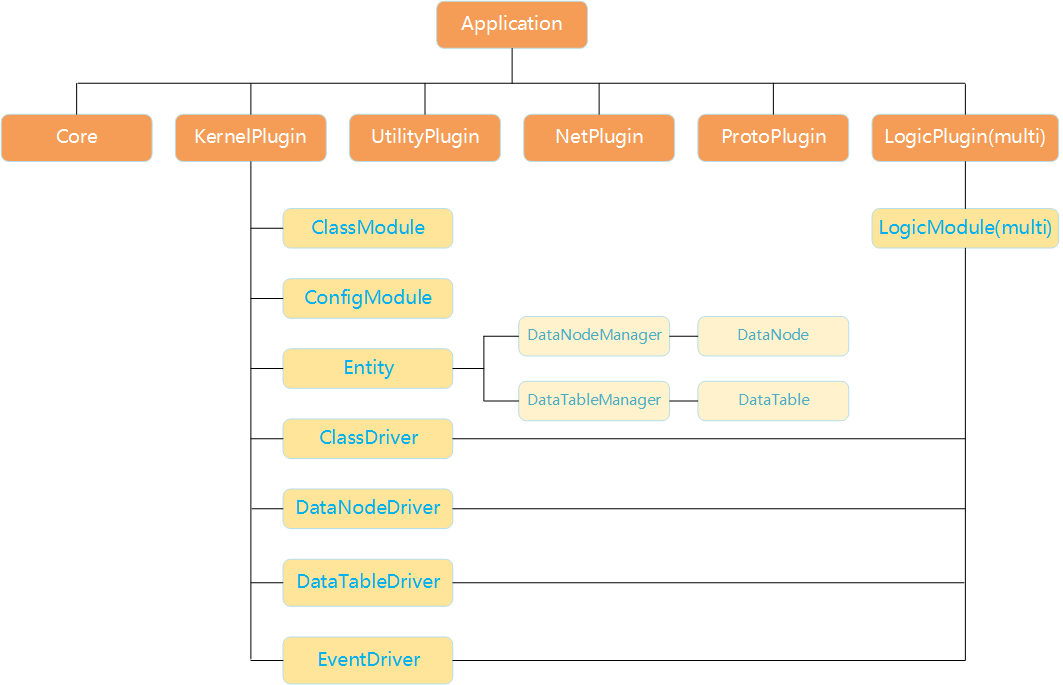
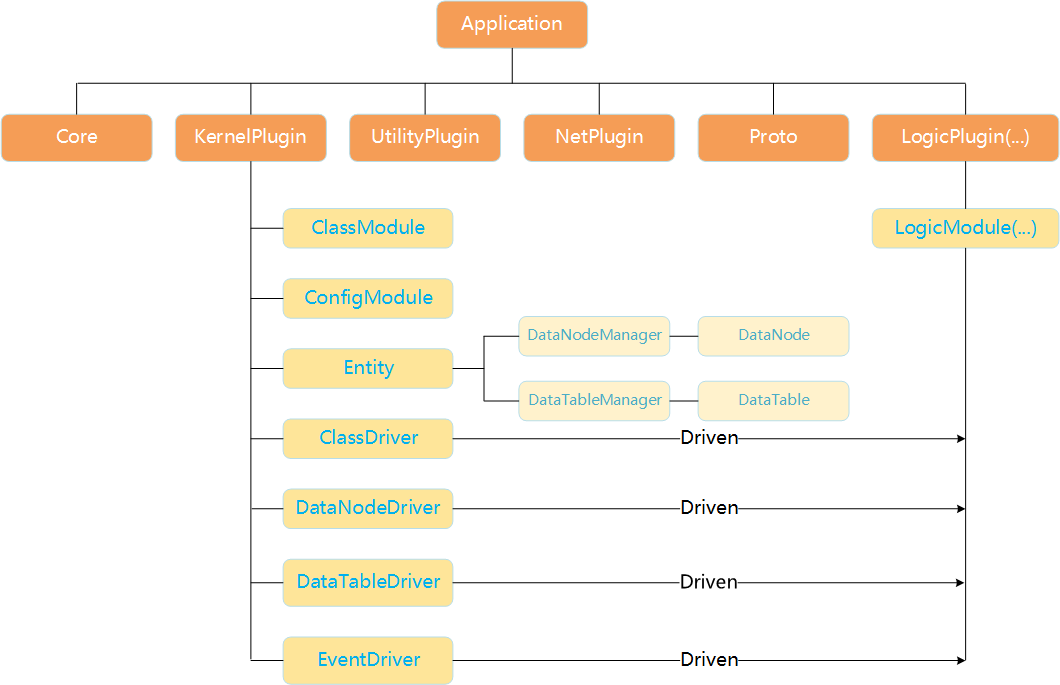
update docs

diff --git a/kernel-plugin.md b/kernel-plugin.md
@@ -1,18 +1,18 @@
-# Kernel plugin
+# KernelPlugin介绍
 
 该插件是`ARK框架`中的核心插件, 主要用来管理Entity对象和进程配置数据, 其中主要包含四个模块,
 
-- AFCClassModule 
-- AFCElementModule
-- AFCSceneModule
+- AFCMetaClassModule 
+- AFCConfigModule
+- AFCMapModule
 - AFCKernelModule
 
 该四个插件对应的功能各不相同, 却各有关联，下面详细讲解各个模块的功能.
 
-## AFCClassModule
+## AFCMetaClassModule
 
-主要负责ARK中Class的管理, 这里的Class类似Entity, 区别于Entity的是, Class是通过配置出来的, 而Entity是在运行过程中动态创建出来的, 其余功能和Entity类似.
-ClassModule通过加载`DataConfig/Struct/LogicClass.xml`来获得ClassName, InstancePath(Class的结构文件路径), ResPath(Class的配置文件路径). 有些动态创建出来的Entity需要通过Class来提供结构样式, 这种Class的Res文件是没有配置的, 因为都是动态创建过程中赋值. 同时也提供ClassEvent和ClassCallback, 当该Class对应的Entity创建时, 可以对应处理事件.
+主要负责ARK中`MetaClass`的管理, 这里的`MetaClass`类似`Entity`, 区别于`Entity`的是, `MetaClass`是通过`配置`出来的, 而`Entity`是在运行过程中`动态创建`出来的, 其余功能和`Entity`类似.
+`MetaClassModule`通过加载`DataConfig/Struct/LogicClass.xml`来获得ClassName, InstancePath(Class的结构文件路径), ResPath(Class的配置文件路径). 有些动态创建出来的`Entity`需要通过`MetaClass`来提供结构样式, 这种`Class`的Res文件是没有配置的, 因为都是动态创建过程中赋值. 同时也提供`ClassEvent`和`ClassCallback`, 当该`MetaClass`对应的`Entity`创建时, 可以对应处理事件.
 
 下面举例说明如何使用ClassCallback
 
@@ -33,32 +33,35 @@ bool AFCPropertyModule::PostInit()
 }
 ```
 
-而AFCPropertyModule::OnObjectClassEvent中可以根据ClassEvent处理不同的业务逻辑，做到解耦(*注意:AddClassCallBack要在该Class对应的Entity创建前调用*)
+而AFCPropertyModule::OnObjectClassEvent中可以根据`ClassEvent`处理不同的业务逻辑，做到解耦(*注意:AddClassCallBack要在该Class对应的Entity创建前调用*)
 
-## AFCElementModule
+## AFCConfigModule
 
-主要管理配置类数据, 通过上面的ClassModule获得Instance和ResPath后，对这两个分别加载进内存，形成配置文件，后续就可以通过下面接口获取配置内容了
+主要管理配置类数据, 通过上面的`MetaClassModule`获得Instance和ResPath后，对这两个分别加载进内存，形成配置文件，后续就可以通过下面接口获取配置内容了
 
 ```cpp
-virtual bool ExistElement(const std::string& strConfigName);
-virtual bool ExistElement(const std::string& strClassName, const std::string& strConfigName);
+bool ExistConfig(const std::string& config_id) override;
+bool ExistConfig(const std::string& class_name, const std::string& config_id) override;
 
-virtual bool GetNodeBool(const std::string& strConfigName, const std::string& strDataNodeName);
-virtual int32_t GetNodeInt(const std::string& strConfigName, const std::string& strDataNodeName);
-virtual int64_t GetNodeInt64(const std::string& strConfigName, const std::string& strDataNodeName);
-virtual float GetNodeFloat(const std::string& strConfigName, const std::string& strDataNodeName);
-virtual double GetNodeDouble(const std::string& strConfigName, const std::string& strDataNodeName);
-virtual const char* GetNodeString(const std::string& strConfigName, const std::string& strDataNodeName);
+bool GetNodeBool(const std::string& config_id, const std::string& node_name) override;
+int32_t GetNodeInt(const std::string& config_id, const std::string& node_name) override;
+int64_t GetNodeInt64(const std::string& config_id, const std::string& node_name) override;
+float GetNodeFloat(const std::string& config_id, const std::string& node_name) override;
+double GetNodeDouble(const std::string& config_id, const std::string& node_name) override;
+const char* GetNodeString(const std::string& config_id, const std::string& node_name) override;
 ```
 
-## AFCSceneModule
+## AFCMapModule
+
 用来创建场景和管理场景中的Entity列表(*为了更加灵活, 当前是按照地图全图广播的, 如有RPG项目的需求，请自行添加RPG中的九宫格/十字链表等视野管理*), 可以获取场景中的Entity数据, 从而进行数据广播等等.
 *因暂时ARK框架中并无实际逻辑，所以此模块暂时并没有特别多的用处.*
 
 ## AFCKernelModule
-主要用来作为Entity数据管理, 是本插件的核心模块，几乎所有的接口都是来自此模块, 主要用途为获取Entity对象, 获取/修改Entity的Node和Table数据, 同时可以注册公共的ClassEvent, DataNodeEvent, DataTableEvent(公共事件并不局限于某个Class/Entity)
+
+主要用来作为Entity数据管理, 是本插件的核心模块，几乎所有的接口都是来自此模块, 主要用途为获取Entity对象, 获取/修改`Entity`的`Node`和`Table`数据, 同时可以注册公共的`ClassEvent`, `DataNodeEvent`, `DataTableEvent`(公共事件并不局限于某个Class/Entity)
 
 公共注册接口如下:
+
 ```cpp
 template<typename BaseType>
 bool RegCommonClassEvent(BaseType* pBase, int (BaseType::*handler)(const AFGUID&, const std::string&, const ARK_ENTITY_EVENT, const AFIDataList&))
@@ -83,6 +86,7 @@ bool RegCommonDataTableEvent(BaseType* pBase, int (BaseType::*handler)(const AFG
 ```
 
 数据获取接口如下:
+
 ```cpp
 virtual ARK_SHARE_PTR<AFIEntity> GetEntity(const AFGUID& ident) = 0;
 virtual ARK_SHARE_PTR<AFIEntity> CreateEntity(const AFGUID& self, const int nSceneID, const int nGroupID, const std::string& strClassName, const std::string& strConfigIndex, const AFIDataList& arg) = 0;
@@ -127,6 +131,7 @@ virtual const AFGUID GetTableObject(const AFGUID& self, const std::string& name,
 ```
 
 举个数据获取的例子:
+
 ```cpp
 int AFCLevelModule::AddExp(const AFGUID& self, const int nExp)
 {

diff --git a/zh-cn/kernel-plugin.md b/zh-cn/kernel-plugin.md
@@ -2,17 +2,17 @@
 
 该插件是`ARK框架`中的核心插件, 主要用来管理Entity对象和进程配置数据, 其中主要包含四个模块,
 
-- AFCClassModule 
-- AFCElementModule
-- AFCSceneModule
+- AFCMetaClassModule 
+- AFCConfigModule
+- AFCMapModule
 - AFCKernelModule
 
 该四个插件对应的功能各不相同, 却各有关联，下面详细讲解各个模块的功能.
 
-## AFCClassModule
+## AFCMetaClassModule
 
-主要负责ARK中Class的管理, 这里的Class类似Entity, 区别于Entity的是, Class是通过配置出来的, 而Entity是在运行过程中动态创建出来的, 其余功能和Entity类似.
-ClassModule通过加载`DataConfig/Struct/LogicClass.xml`来获得ClassName, InstancePath(Class的结构文件路径), ResPath(Class的配置文件路径). 有些动态创建出来的Entity需要通过Class来提供结构样式, 这种Class的Res文件是没有配置的, 因为都是动态创建过程中赋值. 同时也提供ClassEvent和ClassCallback, 当该Class对应的Entity创建时, 可以对应处理事件.
+主要负责ARK中`MetaClass`的管理, 这里的`MetaClass`类似`Entity`, 区别于`Entity`的是, `MetaClass`是通过`配置`出来的, 而`Entity`是在运行过程中`动态创建`出来的, 其余功能和`Entity`类似.
+`MetaClassModule`通过加载`DataConfig/Struct/LogicClass.xml`来获得ClassName, InstancePath(Class的结构文件路径), ResPath(Class的配置文件路径). 有些动态创建出来的`Entity`需要通过`MetaClass`来提供结构样式, 这种`Class`的Res文件是没有配置的, 因为都是动态创建过程中赋值. 同时也提供`ClassEvent`和`ClassCallback`, 当该`MetaClass`对应的`Entity`创建时, 可以对应处理事件.
 
 下面举例说明如何使用ClassCallback
 
@@ -33,32 +33,35 @@ bool AFCPropertyModule::PostInit()
 }
 ```
 
-而AFCPropertyModule::OnObjectClassEvent中可以根据ClassEvent处理不同的业务逻辑，做到解耦(*注意:AddClassCallBack要在该Class对应的Entity创建前调用*)
+而AFCPropertyModule::OnObjectClassEvent中可以根据`ClassEvent`处理不同的业务逻辑，做到解耦(*注意:AddClassCallBack要在该Class对应的Entity创建前调用*)
 
-## AFCElementModule
+## AFCConfigModule
 
-主要管理配置类数据, 通过上面的ClassModule获得Instance和ResPath后，对这两个分别加载进内存，形成配置文件，后续就可以通过下面接口获取配置内容了
+主要管理配置类数据, 通过上面的`MetaClassModule`获得Instance和ResPath后，对这两个分别加载进内存，形成配置文件，后续就可以通过下面接口获取配置内容了
 
 ```cpp
-virtual bool ExistElement(const std::string& strConfigName);
-virtual bool ExistElement(const std::string& strClassName, const std::string& strConfigName);
+bool ExistConfig(const std::string& config_id) override;
+bool ExistConfig(const std::string& class_name, const std::string& config_id) override;
 
-virtual bool GetNodeBool(const std::string& strConfigName, const std::string& strDataNodeName);
-virtual int32_t GetNodeInt(const std::string& strConfigName, const std::string& strDataNodeName);
-virtual int64_t GetNodeInt64(const std::string& strConfigName, const std::string& strDataNodeName);
-virtual float GetNodeFloat(const std::string& strConfigName, const std::string& strDataNodeName);
-virtual double GetNodeDouble(const std::string& strConfigName, const std::string& strDataNodeName);
-virtual const char* GetNodeString(const std::string& strConfigName, const std::string& strDataNodeName);
+bool GetNodeBool(const std::string& config_id, const std::string& node_name) override;
+int32_t GetNodeInt(const std::string& config_id, const std::string& node_name) override;
+int64_t GetNodeInt64(const std::string& config_id, const std::string& node_name) override;
+float GetNodeFloat(const std::string& config_id, const std::string& node_name) override;
+double GetNodeDouble(const std::string& config_id, const std::string& node_name) override;
+const char* GetNodeString(const std::string& config_id, const std::string& node_name) override;
 ```
 
-## AFCSceneModule
+## AFCMapModule
+
 用来创建场景和管理场景中的Entity列表(*为了更加灵活, 当前是按照地图全图广播的, 如有RPG项目的需求，请自行添加RPG中的九宫格/十字链表等视野管理*), 可以获取场景中的Entity数据, 从而进行数据广播等等.
 *因暂时ARK框架中并无实际逻辑，所以此模块暂时并没有特别多的用处.*
 
 ## AFCKernelModule
-主要用来作为Entity数据管理, 是本插件的核心模块，几乎所有的接口都是来自此模块, 主要用途为获取Entity对象, 获取/修改Entity的Node和Table数据, 同时可以注册公共的ClassEvent, DataNodeEvent, DataTableEvent(公共事件并不局限于某个Class/Entity)
+
+主要用来作为Entity数据管理, 是本插件的核心模块，几乎所有的接口都是来自此模块, 主要用途为获取Entity对象, 获取/修改`Entity`的`Node`和`Table`数据, 同时可以注册公共的`ClassEvent`, `DataNodeEvent`, `DataTableEvent`(公共事件并不局限于某个Class/Entity)
 
 公共注册接口如下:
+
 ```cpp
 template<typename BaseType>
 bool RegCommonClassEvent(BaseType* pBase, int (BaseType::*handler)(const AFGUID&, const std::string&, const ARK_ENTITY_EVENT, const AFIDataList&))
@@ -83,6 +86,7 @@ bool RegCommonDataTableEvent(BaseType* pBase, int (BaseType::*handler)(const AFG
 ```
 
 数据获取接口如下:
+
 ```cpp
 virtual ARK_SHARE_PTR<AFIEntity> GetEntity(const AFGUID& ident) = 0;
 virtual ARK_SHARE_PTR<AFIEntity> CreateEntity(const AFGUID& self, const int nSceneID, const int nGroupID, const std::string& strClassName, const std::string& strConfigIndex, const AFIDataList& arg) = 0;
@@ -127,6 +131,7 @@ virtual const AFGUID GetTableObject(const AFGUID& self, const std::string& name,
 ```
 
 举个数据获取的例子:
+
 ```cpp
 int AFCLevelModule::AddExp(const AFGUID& self, const int nExp)
 {

diff --git a/zh-cn/app-architecture.md b/zh-cn/app-architecture.md
@@ -1,6 +1,6 @@
 # 应用架构介绍
 
-ARK中一个应用(application)是有插件(plugin)组成的, 插件(plugin)由很多模块(module)组成的, module通过面向接口编程(IOP)来做到功能调用.
+ARK中一个应用(application)是由插件(plugin)组成的, 插件(plugin)由很多模块(module)组成的, module通过面向接口编程(IOP)来做到功能调用.
 
 这样做的好处有很多, 解耦、热插拔、模块独立、开发者关注更少、单一原则等等。
 
